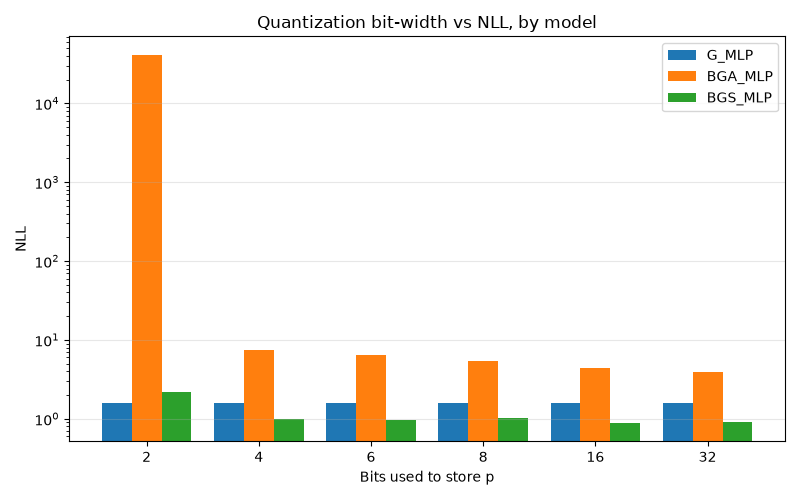
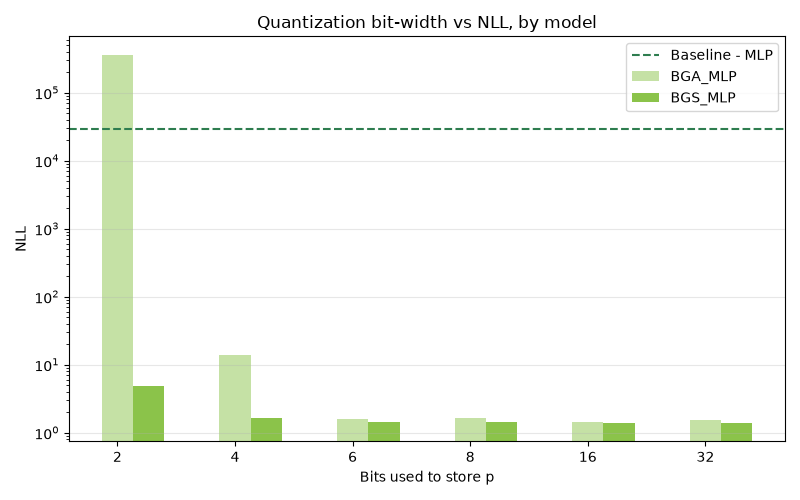
Updated the function for the quantization, whenever the other module is corrected we will run the actual tests

diff --git a/src/vis/quant_plot.py b/src/vis/quant_plot.py
@@ -23,7 +23,7 @@ from src.val.metrics import gaussian_nll, rmse
 
 def plot_quantization_vs_metric(results: dict[str, list[dict]], metric: str, save_path: str):
     # Collect all unique bit-widths
-    bit_widths = sorted({row["bits"] for rows in results.values() for row in rows})
+    bit_widths = sorted({row["bits"] if row["bits"] else 32 for rows in results.values() for row in rows})
     models = list(results.keys())
 
     x = np.arange(len(bit_widths))
@@ -34,7 +34,7 @@ def plot_quantization_vs_metric(results: dict[str, list[dict]], metric: str, sav
     colors = [ "#2e7d4f", "#c5e1a5", "#8bc34a"]
 
     for i, model in enumerate(models):
-        if results[model]["bits"]:
+        if results[model][0]["bits"]:
             # Map bit-width -> metric
             metric_map = {row["bits"]: row[metric] for row in results[model]}
             values = [metric_map.get(b, np.nan) for b in bit_widths]
@@ -44,10 +44,10 @@ def plot_quantization_vs_metric(results: dict[str, list[dict]], metric: str, sav
                 values,
                 width=width,
                 label=model,
-                c=colors[i],
+                color=colors[i],
             )
         else:
-            plt.hlines(results[model][metric], x, style = "-", c=colors[i], label=f"Baseline - {model}")
+            plt.axhline(results[model][0][metric], xmin=np.min(x), xmax=np.max(x), linestyle = "--", color=colors[i], label=f"Baseline - {model}")
 
     plt.xticks(x, bit_widths)
     plt.xlabel("Bits used to store p")
@@ -64,7 +64,7 @@ def plot_quantization_vs_metric(results: dict[str, list[dict]], metric: str, sav
 if __name__ == "__main__":
     device = "cuda" if torch.cuda.is_available() else "cpu"
     bit_widths = (32, 16, 8, 6, 4, 2)
-    epochs = 4000
+    epochs = 100
 
     dataset = UCIRegressionDataset(UCI_DATASETS["concrete"], batch_size=64)
     train_loader, val_loader, test_loader = dataset.generate_data()
@@ -73,7 +73,7 @@ if __name__ == "__main__":
     results = {}
 
     # Baseline: G_MLP
-    for name, cls in [("G_MLP", G_MLP)]:
+    for name, cls in [("MLP", MLP)]:
         model = cls(shared_cfg).to(device)
         fit(model, train_loader, val_loader,
             optimizer=Adam(model.parameters(), lr=1e-3),
